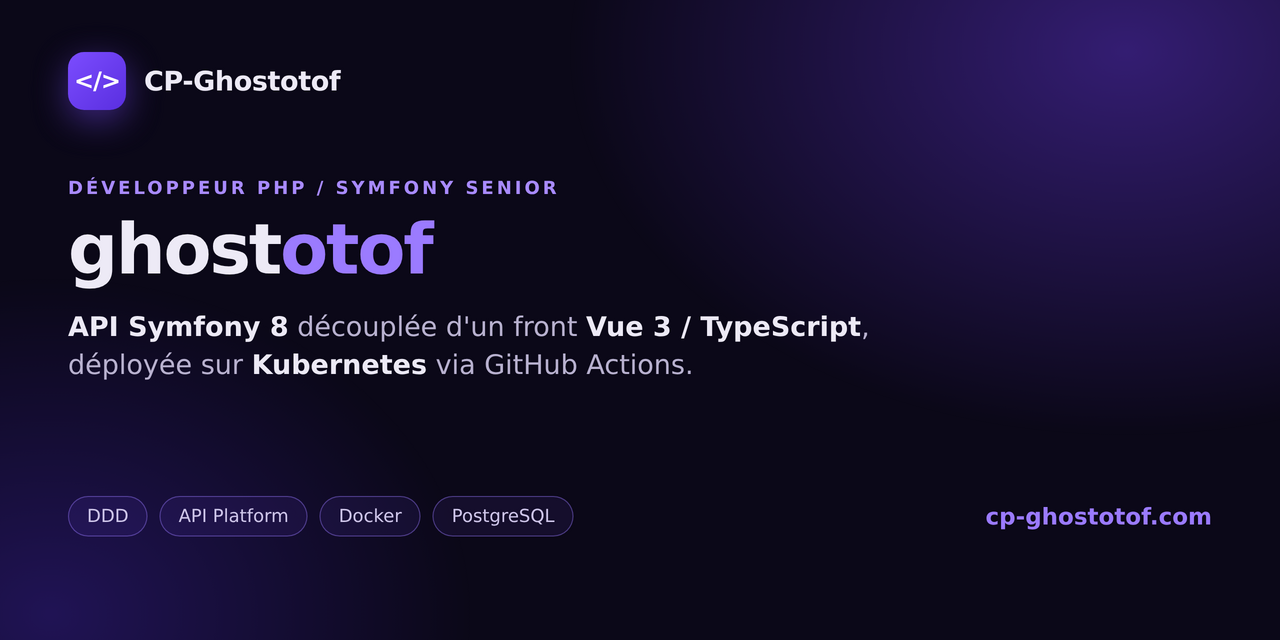
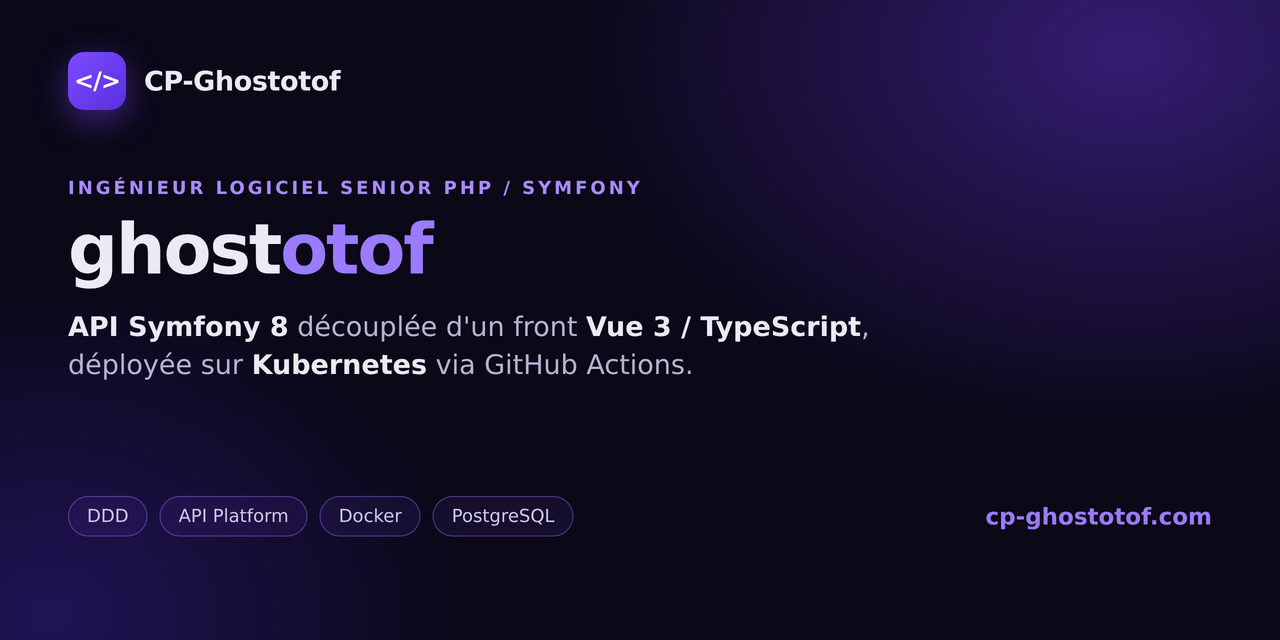
fix(front): intitulé « Ingénieur logiciel senior PHP / Symfony » en tête d'accueil
Le hero annonçait « Développeur PHP / Symfony senior » (« Senior PHP / Symfony
Developer » en anglais). L'intitulé devient « Ingénieur logiciel senior PHP /
Symfony » et « Senior Software Engineer (PHP/Symfony) ».

Le même libellé vivait à trois autres endroits, alignés ici pour qu'un lien
partagé n'annonce pas autre chose que la page qu'il ouvre :

- `frontend/index.html` — `og:title` et `og:image:alt` ;
- `frontend/scripts/og/template.html` — l'eyebrow dessiné sur la carte de
  partage. Les deux PNG commités sont régénérés (`npm run og:generate`) ; la
  pipeline les régénère de toute façon avant de construire l'image frontend,
  donc la carte publiée suit le gabarit.

Hors périmètre, volontairement : la carte « À propos de moi » de
`SeedAboutContentCommand` porte encore l'ancien intitulé, mais c'est du contenu
édité par le backoffice — le seed décline sur une base peuplée, changer le code
ne changerait rien en production. À corriger dans `/admin`.

Changed region(s): [[0.0625, 0.2812, 0.5, 0.3125]]

diff --git a/frontend/index.html b/frontend/index.html
@@ -25,7 +25,7 @@
     <meta property="og:url" content="https://cp-ghostotof.com" />
     <meta property="og:site_name" content="CP-Ghostotof" />
     <meta property="og:locale" content="fr_FR" />
-    <meta property="og:title" content="Christophe Piton — Développeur PHP/Symfony senior" />
+    <meta property="og:title" content="Christophe Piton — Ingénieur logiciel senior PHP / Symfony" />
     <meta
       property="og:description"
       content="API Symfony 8 découplée d'un front Vue 3/TypeScript, déployée sur Kubernetes via GitHub Actions. DDD, API Platform, Docker, PostgreSQL."
@@ -36,7 +36,7 @@
     <meta property="og:image:height" content="630" />
     <meta
       property="og:image:alt"
-      content="Carte de présentation : Christophe Piton, développeur PHP/Symfony senior — API Symfony 8, Vue 3/TypeScript, Kubernetes."
+      content="Carte de présentation : Christophe Piton, ingénieur logiciel senior PHP / Symfony — API Symfony 8, Vue 3/TypeScript, Kubernetes."
     />
     <meta name="twitter:card" content="summary_large_image" />
 

diff --git a/frontend/scripts/og/template.html b/frontend/scripts/og/template.html
@@ -60,7 +60,7 @@
   </div>
 
   <div class="mid">
-    <div class="eyebrow">Développeur PHP / Symfony senior</div>
+    <div class="eyebrow">Ingénieur logiciel senior PHP / Symfony</div>
     <h1>__HEADLINE__</h1>
     <div class="sub"><b>API Symfony 8</b> découplée d'un front <b>Vue 3 / TypeScript</b>,<br>déployée sur <b>Kubernetes</b> via GitHub Actions.</div>
   </div>

diff --git a/frontend/src/infrastructure/portfolio/content/fr.ts b/frontend/src/infrastructure/portfolio/content/fr.ts
@@ -2,7 +2,7 @@ import type { PortfolioLocaleContent } from './PortfolioLocaleContent'
 
 const fr: PortfolioLocaleContent = {
   hero: {
-    eyebrow: 'Développeur PHP / Symfony senior',
+    eyebrow: 'Ingénieur logiciel senior PHP / Symfony',
     titleLead: 'Ce site est',
     titleAccent: 'sa propre démonstration.',
     description:

diff --git a/frontend/src/infrastructure/portfolio/content/en.ts b/frontend/src/infrastructure/portfolio/content/en.ts
@@ -2,7 +2,7 @@ import type { PortfolioLocaleContent } from './PortfolioLocaleContent'
 
 const en: PortfolioLocaleContent = {
   hero: {
-    eyebrow: 'Senior PHP / Symfony Developer',
+    eyebrow: 'Senior Software Engineer (PHP/Symfony)',
     titleLead: 'This site is',
     titleAccent: 'its own demonstration.',
     description:
